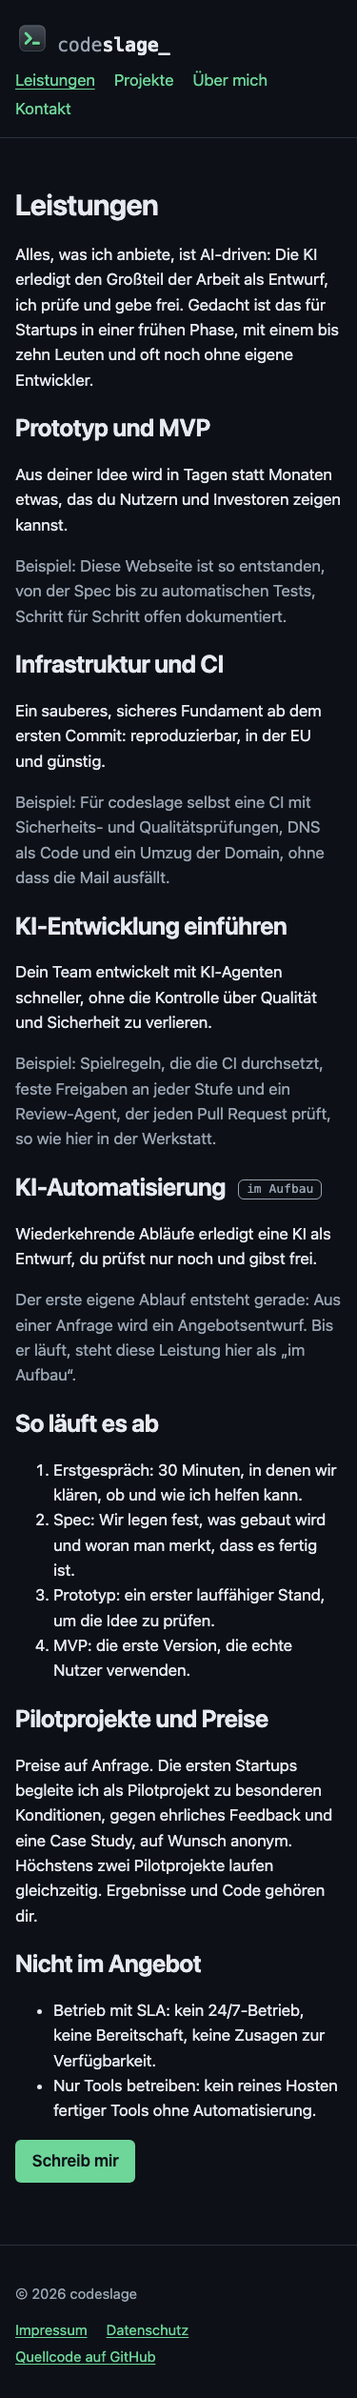
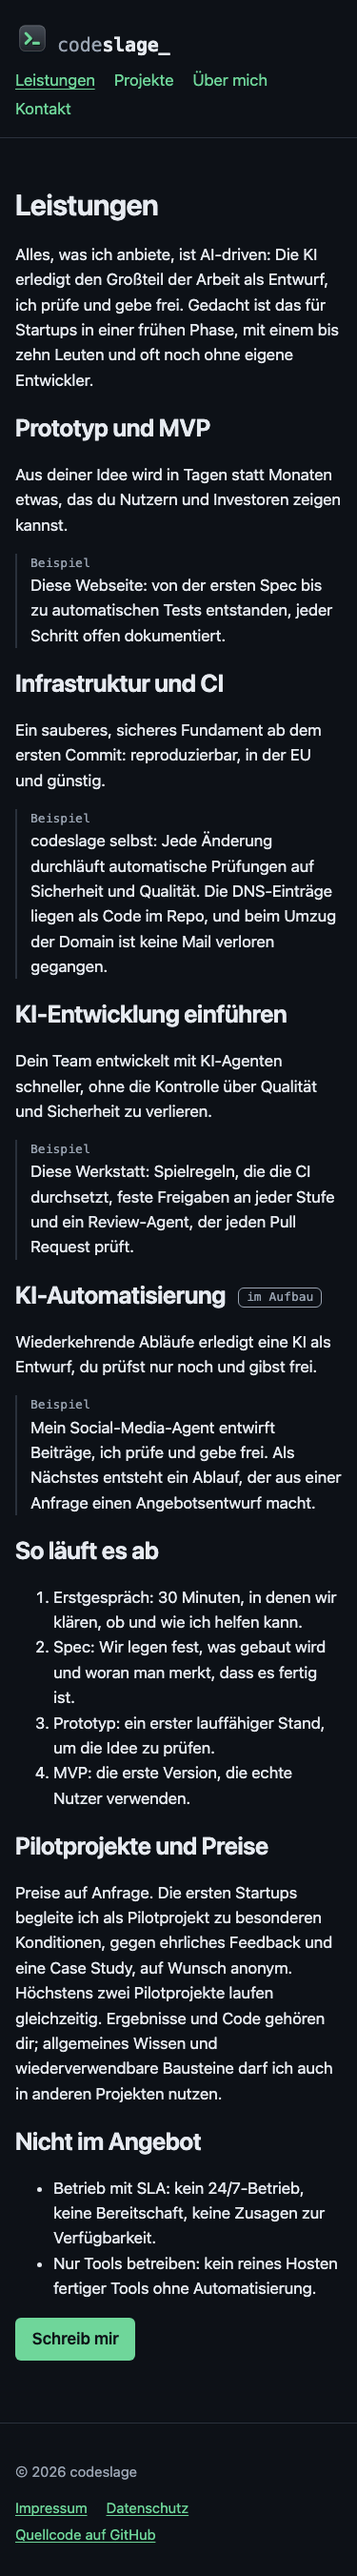
T-14: Beispiele umformuliert und neu gestaltet, Social-Media-Agent als Beispiel (Wünsche des Inhabers)

diff --git a/apps/web/src/styles/global.css b/apps/web/src/styles/global.css
@@ -149,6 +149,19 @@ a:focus-visible {
   vertical-align: middle;
 }
 
+/* Beispiele unter einer Leistung: normaler Text, dünne Linie links, kleines Label in Mono. */
+.example {
+  padding-left: 0.875rem;
+  border-left: 2px solid var(--line);
+}
+
+.example-label {
+  display: block;
+  color: var(--muted);
+  font-family: var(--mono);
+  font-size: 0.8125rem;
+}
+
 .contact-address {
   font-size: 1.375rem;
   font-weight: 600;
